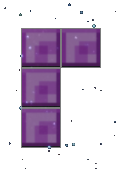
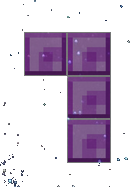
Up next display block functinoality working

diff --git a/scripts/app.js b/scripts/app.js
@@ -32,7 +32,7 @@ function createGrid() {
 }
 createGrid()
 
-const lBlock = [
+const jBlock = [
   [1, 2, 1 + width, 1 + width * 2],
   [width, 1 + width, 2 + width, 2 + width * 2],
   [width * 2, 1 + width * 2, 1 + width, 1],
@@ -73,32 +73,58 @@ const oBlock = [
   [0, 1, width, 1 + width],
   [0, 1, width, 1 + width]
 ]
-const blocks = [lBlock, iBlock, tBlock, sBlock, zBlock, oBlock]
+
+const lBlock = [
+  [0, 1, 1 + width, 1 + width * 2],
+  [width, 1 + width, 2 + width, 2],
+  [1, 1 + width, 1 + width * 2, 2 + width * 2],
+  [width, width * 2, 1 + width, 2 + width]
+]
+
+
+let randArr = Array.from({ length: 250 }, () => Math.floor(Math.random() * 7))
+
+const blocks = [jBlock, iBlock, tBlock, sBlock, zBlock, oBlock, lBlock]
 let currentRotation = 0
-let rand = Math.floor(Math.random() * blocks.length)
-let currentShape = blocks[rand][currentRotation]
+let num = 0
+let display = 1
+// let rand = Math.floor(Math.random() * blocks.length)
+let currentShape = blocks[numFromRandArr()][currentRotation]
 let currentCell = 4
-// let randArr = Array.from({ length: 40 }, () => Math.floor(Math.random() * 6))
 // const x = currentCell % width
+console.log(randArr)
+
+function numFromRandArr() {
+  if (num === randArr.length - 1) {
+    display = 1
+    num = 0
+    return randArr[num]
+  } else {
+    return randArr[num]
+  }
+}
 
 function displayBlock() {
-  if (rand === 0) {
-    upNextImage.style.background = 'url("./images/lBlock.png")'
+  if (randArr[display] === 0) {
+    upNextImage.style.background = 'url("./images/jBlock.png")'
     upNextImage.style.backgroundRepeat = 'no-repeat'
-  } else if (rand === 1) {
+  } else if (randArr[display] === 1) {
     upNextImage.style.background = 'url("./images/iBlock.png")'
     upNextImage.style.backgroundRepeat = 'no-repeat'
-  } else if (rand === 2) {
+  } else if (randArr[display] === 2) {
     upNextImage.style.background = 'url("./images/tBlock.png")'
     upNextImage.style.backgroundRepeat = 'no-repeat'
-  } else if (rand === 3) {
+  } else if (randArr[display] === 3) {
     upNextImage.style.background = 'url("./images/sBlock.png")'
     upNextImage.style.backgroundRepeat = 'no-repeat'
-  } else if (rand === 4) {
+  } else if (randArr[display] === 4) {
     upNextImage.style.background = 'url("./images/zBlock.png")'
     upNextImage.style.backgroundRepeat = 'no-repeat'
-  } else if (rand === 5) {
+  } else if (randArr[display] === 5) {
     upNextImage.style.background = 'url("./images/oBlock.png")'
+    upNextImage.style.backgroundRepeat = 'no-repeat'
+  } else if (randArr[display] === 6) {
+    upNextImage.style.background = 'url("./images/lBlock.png")'
     upNextImage.style.backgroundRepeat = 'no-repeat'
   }
 }
@@ -175,8 +201,10 @@ function addToFilledCells() {
 }
 
 function anotherBlock() {
-  rand = Math.floor(Math.random() * blocks.length)
-  currentShape = blocks[rand][currentRotation]
+  // rand = Math.floor(Math.random() * blocks.length)
+  display++
+  num++
+  currentShape = blocks[numFromRandArr()][currentRotation]
   displayBlock()
   currentCell = 4
   generateBlock()
@@ -261,7 +289,7 @@ function rotateBlock() {
   if (currentRotation === 4) {
     currentRotation = 0
   }
-  currentShape = blocks[rand][currentRotation]
+  currentShape = blocks[numFromRandArr()][currentRotation]
   generateBlock()
 }
 
